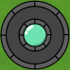
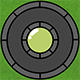
Added slow_tower picture. Different minions spawn depending on wave number

diff --git a/Beefense/Logic/spawner.cpp b/Beefense/Logic/spawner.cpp
@@ -24,7 +24,12 @@ void Spawner::spawnEnemy()
             delete mWaveTimer;
         mEnemiesSpawned = 0;
     }
-    Enemy *enemy = new Enemy(EnemyType::angryBee,mGame->getMap().getStart()->x(), mGame->getMap().getStart()->y(), mGame->getMap().getPath());
+    Enemy *enemy;
+    if(mWaves <= mNumWaves / 2 + 1) {
+        enemy = new Enemy(EnemyType::Bee, mGame->getMap().getStart()->x(), mGame->getMap().getStart()->y(), mGame->getMap().getPath());
+    } else {
+        enemy = new Enemy(EnemyType::AngryBee, mGame->getMap().getStart()->x(), mGame->getMap().getStart()->y(), mGame->getMap().getPath());
+    }
     mGame->addItem(enemy);
     mEnemiesSpawned++;
 }

diff --git a/Beefense/Logic/enemy.cpp b/Beefense/Logic/enemy.cpp
@@ -16,7 +16,7 @@ Enemy::Enemy(EnemyType type,qreal x, qreal y, QVector<QPointF *> path, int dim)
     setPos(x, y);
     setOffset(0, 10);
 
-    if(type == EnemyType::bee) {
+    if(type == EnemyType::Bee) {
         setPixmap(QPixmap(":/images/enemy/bee.png").scaled(dim - 13, dim - 13));
     } else {
         setPixmap(QPixmap(":/images/enemy/angry_bee.png").scaled(dim - 13, dim - 13));

diff --git a/Beefense/Tiles/Towers/slowtower.h b/Beefense/Tiles/Towers/slowtower.h
@@ -7,7 +7,7 @@
 class SlowTower: public TowerActive
 {
 public:
-   SlowTower(int x, int y, QGraphicsScene *game, const QPixmap &pic = QPixmap(":/images/tower/tower_active.png"));
+   SlowTower(int x, int y, QGraphicsScene *game, const QPixmap &pic = QPixmap(":/images/tower/slow_tower.png"));
 
    Projectile* createProjectile(Enemy *target);
 };

diff --git a/Beefense/Logic/level.cpp b/Beefense/Logic/level.cpp
@@ -1,3 +1,4 @@
+#include <QDebug>
 #include "level.h"
 #include "levelreader.h"
 
@@ -61,6 +62,7 @@ int Level::getWaves() const
 
 void Level::setWaves(int waves)
 {
+    qDebug() << waves;
     mWaves = waves;
 }
 

diff --git a/Beefense/Logic/spawner.h b/Beefense/Logic/spawner.h
@@ -21,8 +21,8 @@ public slots:
 private:
     Game *mGame;
     QTimer *mWaveTimer;
-    int mEnemiesSpawned;
     int mSpawnTime;
+    int mEnemiesSpawned;
     int mNumWaves;
     int mWaves;
 };

diff --git a/Beefense/Logic/levelreader.cpp b/Beefense/Logic/levelreader.cpp
@@ -138,7 +138,6 @@ void LevelReader::readEnemyHP(Level *currLevel)
         exit(EXIT_FAILURE);
     }
 
-    currLevel->setWaves(hp);
 }
 
 void LevelReader::readMap(Level *currLevel)

diff --git a/Beefense/Logic/enumhead.h b/Beefense/Logic/enumhead.h
@@ -4,7 +4,7 @@
 
 enum class EnemyType
 {
-    bee, angryBee
+    Bee, AngryBee
 };
 
 enum class RoadTileType {
